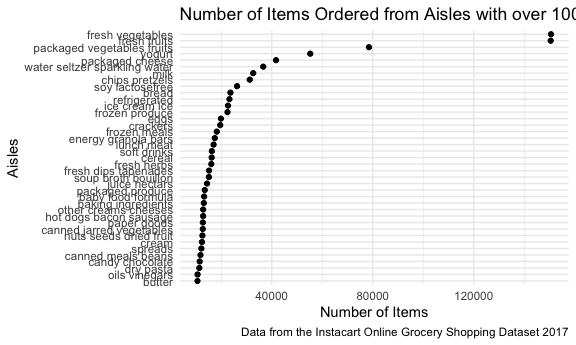
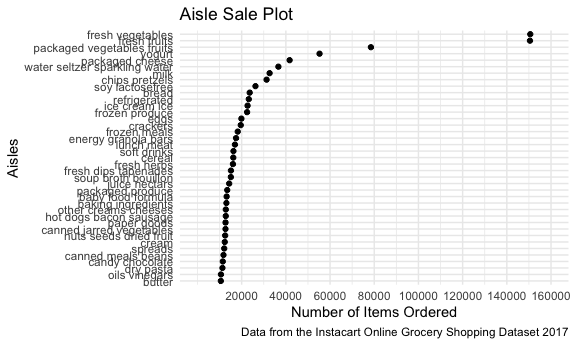
made some corrections

diff --git a/p8105_hw3_ly2565.md b/p8105_hw3_ly2565.md
@@ -29,16 +29,17 @@ instacart
     ## #   order_hour_of_day <int>, days_since_prior_order <int>, product_name <chr>,
     ## #   aisle_id <int>, department_id <int>, aisle <chr>, department <chr>
 
--   The data set has 1384617 rows and 15 columns with variables:
+-   The data set contains 1384617 observations of 15 variables:
     order\_id, product\_id, add\_to\_cart\_order, reordered, user\_id,
     eval\_set, order\_number, order\_dow, order\_hour\_of\_day,
     days\_since\_prior\_order, product\_name, aisle\_id, department\_id,
-    aisle, department.
+    aisle, department. In total, there are 21 departments and 131209
+    unique users. In the `reordered` column, `1` means this product was
+    ordered by this user in the past, `0` means this product was not.
 
 ## Some questions related to this data set.
 
-How many aisles are there, and which aisles are the most items ordered
-from:
+#### How many aisles are there, and which aisles are the most items ordered from:
 
 ``` r
 aisle_count = 
@@ -69,8 +70,7 @@ aisle_most
 -   There are 134 aisles in total, and the aisles that the most items
     are ordered from are fresh fruits, fresh vegetables.
 
-Make a plot that shows the number of items ordered in each aisle,
-limiting this to aisles with more than 10000 items ordered:
+#### Make a plot that shows the number of items ordered in each aisle, limiting this to aisles with more than 10000 items ordered:
 
 ``` r
 instacart %>% 
@@ -81,16 +81,22 @@ instacart %>%
   ggplot(aes(x = n_obs, y = aisle)) +
   geom_point() +
   labs(
-    title = "Number of Items Ordered from Aisles with over 10000 Items",
-    x = "Number of Items",
+    title = "Aisle Sale Plot",
+    x = "Number of Items Ordered",
     y = "Aisles",
-    caption = "Data from the Instacart Online Grocery Shopping Dataset 2017")
+    caption = "Data from the Instacart Online Grocery Shopping Dataset 2017") +
+  scale_x_continuous(
+    breaks = c(20000, 40000, 60000, 80000, 100000, 120000, 140000, 160000), 
+    limits = c(0, 160000)
+  )
 ```
 
 <img src="p8105_hw3_ly2565_files/figure-gfm/unnamed-chunk-3-1.png" width="90%" />
+\* From this plot, we can clearly see that fresh vegetables and fresh
+fruits are the two most popular aisles. And they are the only two aisles
+with over 100000 items ordered.
 
-Make a table showing the three most popular items in each of the aisles
-“baking ingredients”, “dog food care”, and “packaged vegetables fruits”:
+#### Make a table showing the three most popular items in each of the aisles “baking ingredients”, “dog food care”, and “packaged vegetables fruits”:
 
 ``` r
 instacart %>% 
@@ -119,8 +125,14 @@ instacart %>%
 | dog food care              | Organix Chicken & Brown Rice Recipe             |       13 |
 | dog food care              | Original Dry Dog                                |        9 |
 
-Make a table showing the mean hour of the day at which Pink Lady Apples
-and Coffee Ice Cream are ordered on each day of the week:
+-   In the `baking ingredients` aisle, the three most popular items are
+    light brown sugar, pure baking soda, and organic vanilla extract;
+    for `dog food care` aisle, they are organic grain free chicken &
+    vegetable dog food, organic chicken & brown rice recipe, and
+    original dry dog; for `packaged vegetables fruits` aisle, they are
+    organic baby spinach, organic raspberries, and organic blueberries.
+
+#### Make a table showing the mean hour of the day at which Pink Lady Apples and Coffee Ice Cream are ordered on each day of the week:
 
 ``` r
 mean_hour_dow =
@@ -133,9 +145,6 @@ mean_hour_dow =
     values_from = mean_hour
   )  
 ```
-
-    ## Warning in product_name == c("Pink Lady Apples", "Coffee Ice Cream"): longer
-    ## object length is not a multiple of shorter object length
 
     ## `summarise()` has grouped output by 'product_name'. You can override using the `.groups` argument.
 
@@ -150,9 +159,13 @@ mean_hour_dow %>%
 | Coffee Ice Cream | 13.22222 | 15.00000 | 15.33333 | 15.4000 | 15.16667 | 10.33333 | 12.35294 |
 | Pink Lady Apples | 12.25000 | 11.67857 | 12.00000 | 13.9375 | 11.90909 | 13.86957 | 11.55556 |
 
+-   According to this table, the mean hour of the day at which coffee
+    ice cream are ordered is higher than that at which pink lady apples
+    are order on all days of the week, except Friday.
+
 # Problem 2
 
-## Load the BRFSS data set.
+## Load and tidy the BRFSS data set.
 
 ``` r
 data("brfss_smart2010")
@@ -162,16 +175,11 @@ brfss_df =
   separate(locationdesc, into = c('state', 'location'), sep = "-") %>%
   select(-state) %>%
   rename(state = locationabbr) %>% 
-  filter(topic == "Overall Health") %>% 
+  filter(
+    topic == "Overall Health",
+    response %in% c("Excellent", "Very good", "Good", "Fair", "Poor")) %>% 
   mutate(response = factor(response, levels = c("Poor", "Fair", "Good", "Very good", "Excellent"))) %>% 
   arrange(response)
-```
-
-    ## Warning: Expected 2 pieces. Additional pieces discarded in 500 rows [4211, 4212,
-    ## 4213, 4214, 4215, 4216, 4217, 4218, 4219, 4220, 4221, 4222, 4223, 4224, 4225,
-    ## 4226, 4227, 4228, 4229, 4230, ...].
-
-``` r
 brfss_df
 ```
 
@@ -197,8 +205,7 @@ brfss_df
 
 ## Some questions related to the data set.
 
-In 2002, which states were observed at 7 or more locations? What about
-in 2010:
+#### In 2002, which states were observed at 7 or more locations? What about in 2010:
 
 ``` r
 brfss_2002 = 
@@ -218,103 +225,84 @@ brfss_2010 =
   filter(n_locations >= 7)
 ```
 
-In 2002, the states observed at 7 or more locations were AZ, CO, CT, DE,
-FL, GA, HI, ID, IL, IN, KS, LA, MA, MD, ME, MI, MN, MO, NC, NE, NH, NJ,
-NV, NY, OH, OK, OR, PA, RI, SC, SD, TN, TX, UT, VT, WA. In 2010, they
-were AL, AR, AZ, CA, CO, CT, DE, FL, GA, HI, IA, ID, IL, IN, KS, LA, MA,
-MD, ME, MI, MN, MO, MS, MT, NC, ND, NE, NH, NJ, NM, NV, NY, OH, OK, OR,
-PA, RI, SC, SD, TN, TX, UT, VT, WA, WY.
+-   In 2002, there were 36 states observed at 7 or more locations, they
+    were AZ, CO, CT, DE, FL, GA, HI, ID, IL, IN, KS, LA, MA, MD, ME, MI,
+    MN, MO, NC, NE, NH, NJ, NV, NY, OH, OK, OR, PA, RI, SC, SD, TN, TX,
+    UT, VT, WA. In 2010, there were 45 states observed at 7 or more
+    locations: AL, AR, AZ, CA, CO, CT, DE, FL, GA, HI, IA, ID, IL, IN,
+    KS, LA, MA, MD, ME, MI, MN, MO, MS, MT, NC, ND, NE, NH, NJ, NM, NV,
+    NY, OH, OK, OR, PA, RI, SC, SD, TN, TX, UT, VT, WA, WY.
 
-Construct a dataset that is limited to Excellent responses, and
-contains, year, state, and a variable that averages the data\_value
-across locations within a state:
+#### Construct a dataset that is limited to Excellent responses, and contains, year, state, and a variable that averages the data\_value across locations within a state:
 
 ``` r
 excellent_df = 
   brfss_df %>% 
   filter(response == "Excellent") %>% 
-  group_by(state, year) %>% 
+  group_by(year, state) %>% 
   summarize(data_value_mean = mean(data_value, na.rm = TRUE))
 ```
 
-    ## `summarise()` has grouped output by 'state'. You can override using the `.groups` argument.
+    ## `summarise()` has grouped output by 'year'. You can override using the `.groups` argument.
 
 ``` r
 excellent_df
 ```
 
     ## # A tibble: 443 × 3
-    ## # Groups:   state [51]
-    ##    state  year data_value_mean
-    ##    <chr> <int>           <dbl>
-    ##  1 AK     2002            27.9
-    ##  2 AK     2003            24.8
-    ##  3 AK     2004            23.0
-    ##  4 AK     2005            23.8
-    ##  5 AK     2007            23.5
-    ##  6 AK     2008            20.6
-    ##  7 AK     2009            23.2
-    ##  8 AL     2002            18.5
-    ##  9 AL     2003            19.5
-    ## 10 AL     2004            20  
+    ## # Groups:   year [9]
+    ##     year state data_value_mean
+    ##    <int> <chr>           <dbl>
+    ##  1  2002 AK               27.9
+    ##  2  2002 AL               18.5
+    ##  3  2002 AR               24.1
+    ##  4  2002 AZ               24.1
+    ##  5  2002 CA               22.7
+    ##  6  2002 CO               23.1
+    ##  7  2002 CT               29.1
+    ##  8  2002 DC               29.3
+    ##  9  2002 DE               20.9
+    ## 10  2002 FL               25.7
     ## # … with 433 more rows
 
 -   The excellent response data set contains average data values of 51
     states (including DC) from 2002 to 2010.
 
-Make a “spaghetti” plot of this average value over time within a state:
+#### Make a “spaghetti” plot of this average value over time within a state:
 
 ``` r
-## need more aes and comments
 excellent_df %>% 
   ggplot(aes(x = year, y = data_value_mean, group = state, color = state)) +
-  geom_line() +
+  geom_line(aes(group = state), alpha = 0.8) +
   labs(
-    title = "Average Data Value Over Time Within A State",
+    title = "Average Data Values Over Time",
     x = "Year",
-    y = "Average Data Value"
-  )
+    y = "Average Data Values",
+    color = "State"
+  ) +
+  theme(legend.position = "right")
 ```
 
 <img src="p8105_hw3_ly2565_files/figure-gfm/unnamed-chunk-9-1.png" width="90%" />
 
-Make a two-panel plot showing, for the years 2006, and 2010,
-distribution of data\_value for responses (“Poor” to “Excellent”) among
-locations in NY State:
+-   comments?
+
+#### Make a two-panel plot showing, for the years 2006, and 2010, distribution of data\_value for responses (“Poor” to “Excellent”) among locations in NY State:
 
 ``` r
-ny_2006 = 
-  brfss_df %>% 
-  filter(year == 2006, state == "NY") %>% 
+brfss_df %>% 
+  filter(year == 2006 | year == 2010, state == "NY") %>% 
   ggplot(aes(x = response, y = data_value)) +
   geom_boxplot() +
   labs(
-    title = "Distribution of Data Value in 2006",
+    title = "Distribution of Data Values in NY State",
     x = "Response",
-    y = "Data Value"
-  )
-
-ny_2010 = 
-  brfss_df %>% 
-  filter(year == 2010, state == "NY") %>% 
-  ggplot(aes(x = response, y = data_value)) +
-  geom_boxplot() +
-  labs(
-    title = "Distribution of Data Value in 2010",
-    x = "Response",
-    y = "Data Value"
-  )
-
-ny_2006 + ny_2010
+    y = "Data Values"
+  ) +
+  facet_grid(. ~ year)
 ```
 
 <img src="p8105_hw3_ly2565_files/figure-gfm/unnamed-chunk-10-1.png" width="90%" />
-
-``` r
-ny_2006 + ny_2010
-```
-
-<img src="p8105_hw3_ly2565_files/figure-gfm/unnamed-chunk-10-2.png" width="90%" />
 \* From the plot, we can see that data values for positive
 responses(excellent, very good, good) were greater than those for fair
 and poor responses in both 2006 and 2010.
@@ -413,11 +401,12 @@ accelerometer_df %>%
   labs(
     title = "24-hour Activity Counts",
     x = "Time",
-    y = "Activity Counts"
+    y = "Activity Counts",
+    color = "Day"
   ) +
   scale_x_continuous(
     breaks = c(0, 240, 480, 720, 960, 1200, 1440), 
-    labels = c("12am.", "4am", "8am", "12pm", "4pm", "8pm", "11:59pm"),
+    labels = c("12am", "4am", "8am", "12pm", "4pm", "8pm", "11:59pm"),
     limits = c(0, 1440)
   )
 ```
